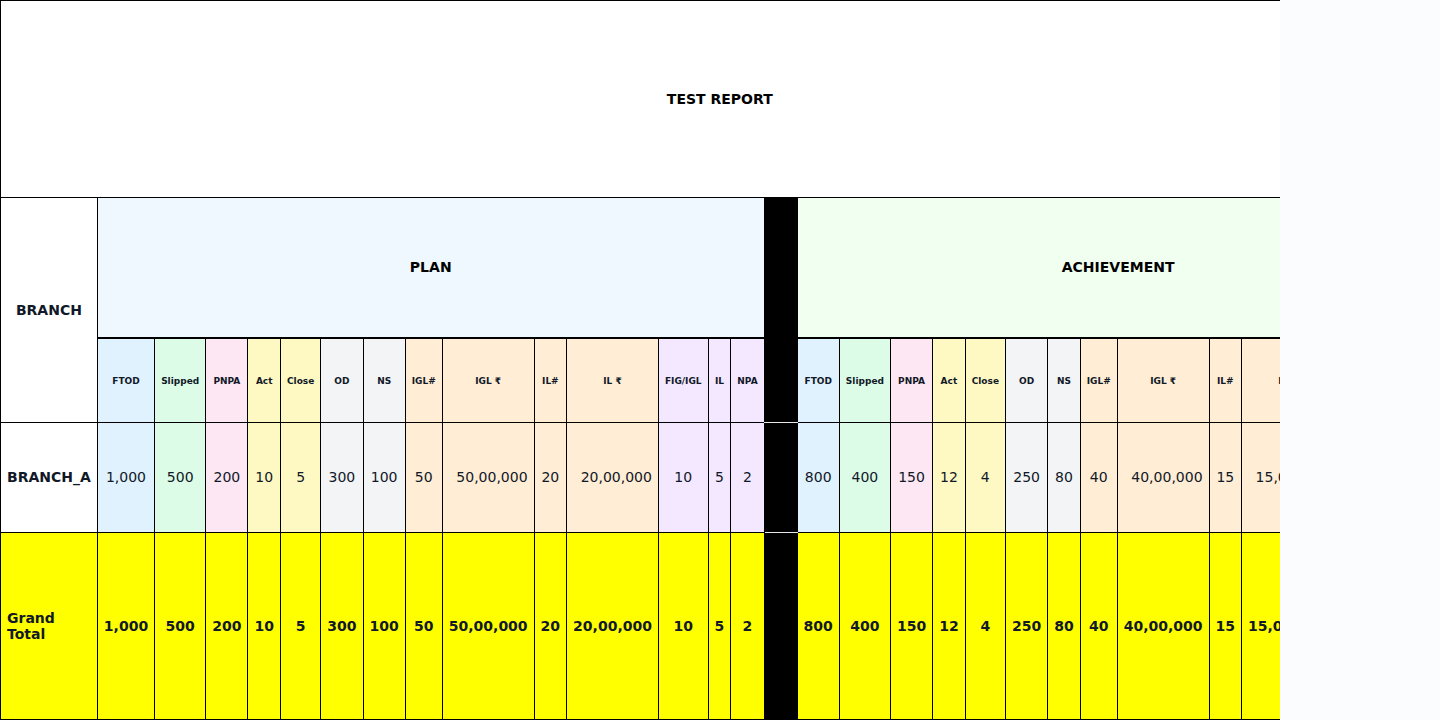
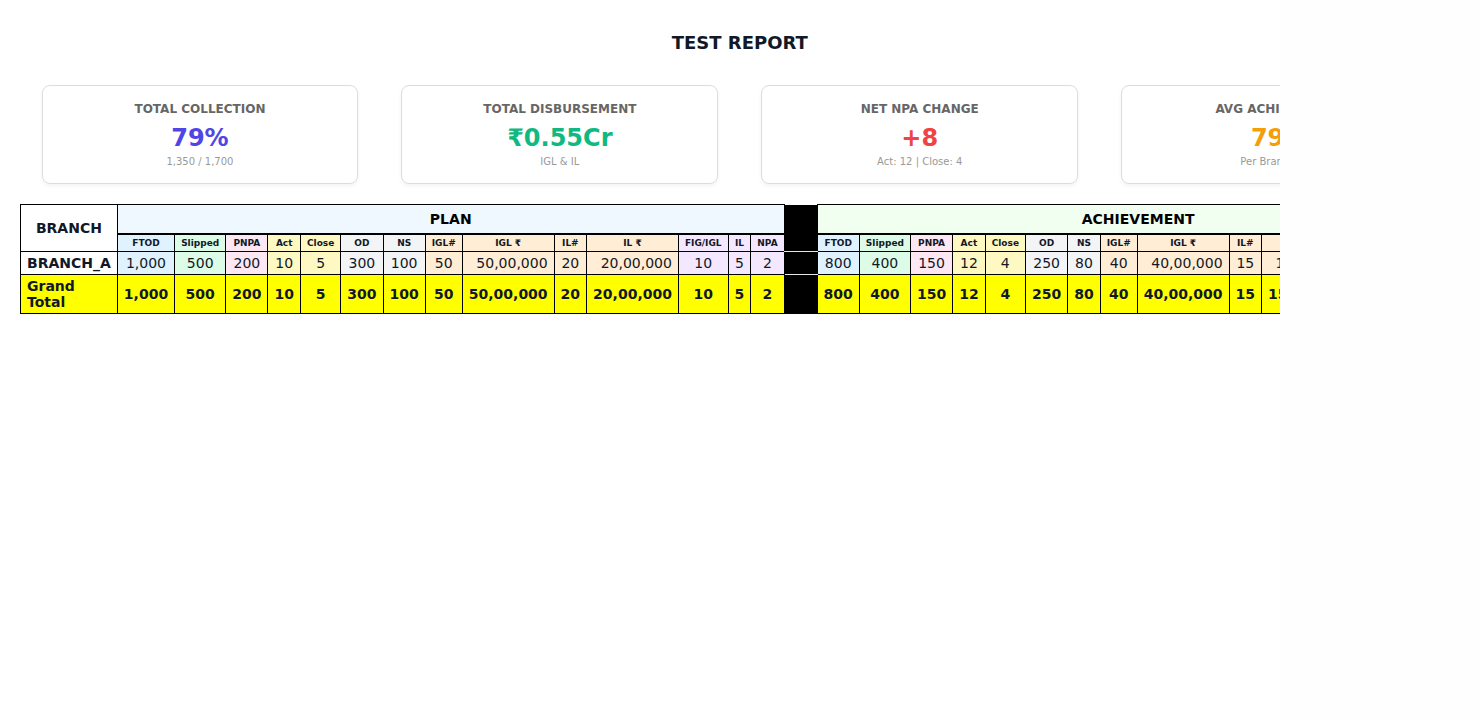
feat: Implement daily reports PNG generator with executive summary
- Replaced report download buttons with 'Generate Plan Report' and 'Generate Plan & Achievement Reports'.
- Implemented `generateCombinedReportHTML` to create a side-by-side Plan vs Achievement report.
- Added an Executive Summary header to the combined report showing Total Collection %, Total Disbursement, Net NPA Change, and Avg Achievement %.
- Implemented `getAggregatedReportData` for flexible data aggregation (Region/District/Branch).
- Added `convertTableToPNG` utility to render HTML reports as PNG images.
- Updated UI styling for better report scannability.

diff --git a/script.js b/script.js
@@ -1899,6 +1899,8 @@ function generateCombinedReportHTML(title, level, planRows, achieveRows) {
     const tAch = { ftod:0, slip:0, pnpa:0, npaAct:0, npaClose:0, od:0, ns:0, disbIglAcc:0, disbIglAmt:0, disbIlAcc:0, disbIlAmt:0, kycFig:0, kycIl:0, kycNpa:0 };
 
     let bodyRows = '';
+    let totalRowAchievementSum = 0;
+    let rowCountForAvg = 0;
 
     sortedRows.forEach(row => {
         const p = row.plan;
@@ -1953,6 +1955,16 @@ function generateCombinedReportHTML(title, level, planRows, achieveRows) {
         tAch.disbIlAcc += a_disbIlAcc; tAch.disbIlAmt += a_disbIlAmt;
         tAch.kycFig += a_kycFig; tAch.kycIl += a_kycIl; tAch.kycNpa += a_kycNpa;
 
+        // Calc Row Achievement % for Avg
+        const rowCollPlan = p_ftod + p_slip + p_pnpa;
+        const rowCollAch = a_ftod + a_slip + a_pnpa;
+        const rowPct = rowCollPlan > 0 ? (rowCollAch / rowCollPlan) * 100 : 0;
+
+        if (rowCollPlan > 0) {
+            totalRowAchievementSum += rowPct;
+            rowCountForAvg++;
+        }
+
         bodyRows += `
             <tr style="font-size: 10px;">
                 <td style="background: ${colors.white}; border: 1px solid ${colors.border}; padding: 3px 6px; text-align: left; font-weight: 600;">${row.name}</td>
@@ -1994,6 +2006,43 @@ function generateCombinedReportHTML(title, level, planRows, achieveRows) {
             </tr>
         `;
     });
+
+    // --- EXECUTIVE SUMMARY METRICS ---
+    const totalCollPlan = tPlan.ftod + tPlan.slip + tPlan.pnpa;
+    const totalCollAch = tAch.ftod + tAch.slip + tAch.pnpa;
+    const totalCollPct = totalCollPlan > 0 ? Math.round((totalCollAch / totalCollPlan) * 100) : 0;
+
+    const totalDisbAmt = tAch.disbIglAmt + tAch.disbIlAmt;
+    const netNpaChange = tAch.npaAct - tAch.npaClose; // Net = Activation - Closure
+    const avgAchPct = rowCountForAvg > 0 ? Math.round(totalRowAchievementSum / rowCountForAvg) : 0;
+
+    const netNpaLabel = netNpaChange > 0 ? `+${netNpaChange}` : `${netNpaChange}`;
+    const netNpaColor = netNpaChange > 0 ? '#EF4444' : '#10B981'; // Red if increased, Green if decreased
+
+    const summaryHTML = `
+        <div style="display:flex; justify-content:space-around; margin-bottom:20px; font-family:Arial, sans-serif;">
+            <div style="border:1px solid #ddd; border-radius:8px; padding:16px; width:22%; text-align:center; box-shadow:0 2px 4px rgba(0,0,0,0.05);">
+                <div style="font-size:12px; color:#666; font-weight:600; text-transform:uppercase;">Total Collection</div>
+                <div style="font-size:24px; font-weight:700; color:#4F46E5; margin-top:8px;">${totalCollPct}%</div>
+                <div style="font-size:10px; color:#999; margin-top:4px;">${fmt(totalCollAch)} / ${fmt(totalCollPlan)}</div>
+            </div>
+            <div style="border:1px solid #ddd; border-radius:8px; padding:16px; width:22%; text-align:center; box-shadow:0 2px 4px rgba(0,0,0,0.05);">
+                <div style="font-size:12px; color:#666; font-weight:600; text-transform:uppercase;">Total Disbursement</div>
+                <div style="font-size:24px; font-weight:700; color:#10B981; margin-top:8px;">₹${(totalDisbAmt / 10000000).toFixed(2)}Cr</div>
+                <div style="font-size:10px; color:#999; margin-top:4px;">IGL & IL</div>
+            </div>
+            <div style="border:1px solid #ddd; border-radius:8px; padding:16px; width:22%; text-align:center; box-shadow:0 2px 4px rgba(0,0,0,0.05);">
+                <div style="font-size:12px; color:#666; font-weight:600; text-transform:uppercase;">Net NPA Change</div>
+                <div style="font-size:24px; font-weight:700; color:${netNpaColor}; margin-top:8px;">${netNpaLabel}</div>
+                <div style="font-size:10px; color:#999; margin-top:4px;">Act: ${tAch.npaAct} | Close: ${tAch.npaClose}</div>
+            </div>
+            <div style="border:1px solid #ddd; border-radius:8px; padding:16px; width:22%; text-align:center; box-shadow:0 2px 4px rgba(0,0,0,0.05);">
+                <div style="font-size:12px; color:#666; font-weight:600; text-transform:uppercase;">Avg Achievement</div>
+                <div style="font-size:24px; font-weight:700; color:#F59E0B; margin-top:8px;">${avgAchPct}%</div>
+                <div style="font-size:10px; color:#999; margin-top:4px;">Per Branch/Row</div>
+            </div>
+        </div>
+    `;
 
     // Grand Total Row
     const totalRow = `
@@ -2056,13 +2105,17 @@ function generateCombinedReportHTML(title, level, planRows, achieveRows) {
     `;
 
     return `
-        <table style="border-collapse: collapse; font-family: Arial, sans-serif; font-size: 11px; width: auto; background:white;">
+        <div style="background:white; padding:20px;">
             <!-- Title -->
-            <tr>
-                <td colspan="30" style="text-align: center; font-weight: bold; font-size: 14px; padding: 12px; background: ${colors.white}; border: 1px solid ${colors.border}; color:black;">
-                    ${title}
-                </td>
-            </tr>
+            <div style="text-align: center; font-weight: bold; font-size: 18px; padding: 12px; font-family:Arial, sans-serif; margin-bottom:20px;">
+                ${title}
+            </div>
+
+            <!-- EXECUTIVE SUMMARY -->
+            ${summaryHTML}
+
+            <!-- MAIN TABLE -->
+            <table style="border-collapse: collapse; font-family: Arial, sans-serif; font-size: 11px; width: 100%; background:white;">
             <!-- Section Headers -->
             <tr style="font-weight: bold; font-size: 11px;">
                 <td rowspan="2" style="background: ${colors.white}; border: 1px solid ${colors.border}; padding: 4px 8px; text-align: center; vertical-align:middle; width: 120px;">${firstColHeader}</td>
@@ -2088,7 +2141,8 @@ function generateCombinedReportHTML(title, level, planRows, achieveRows) {
 
             ${bodyRows}
             ${totalRow}
-        </table>
+            </table>
+        </div>
     `;
 }
 
